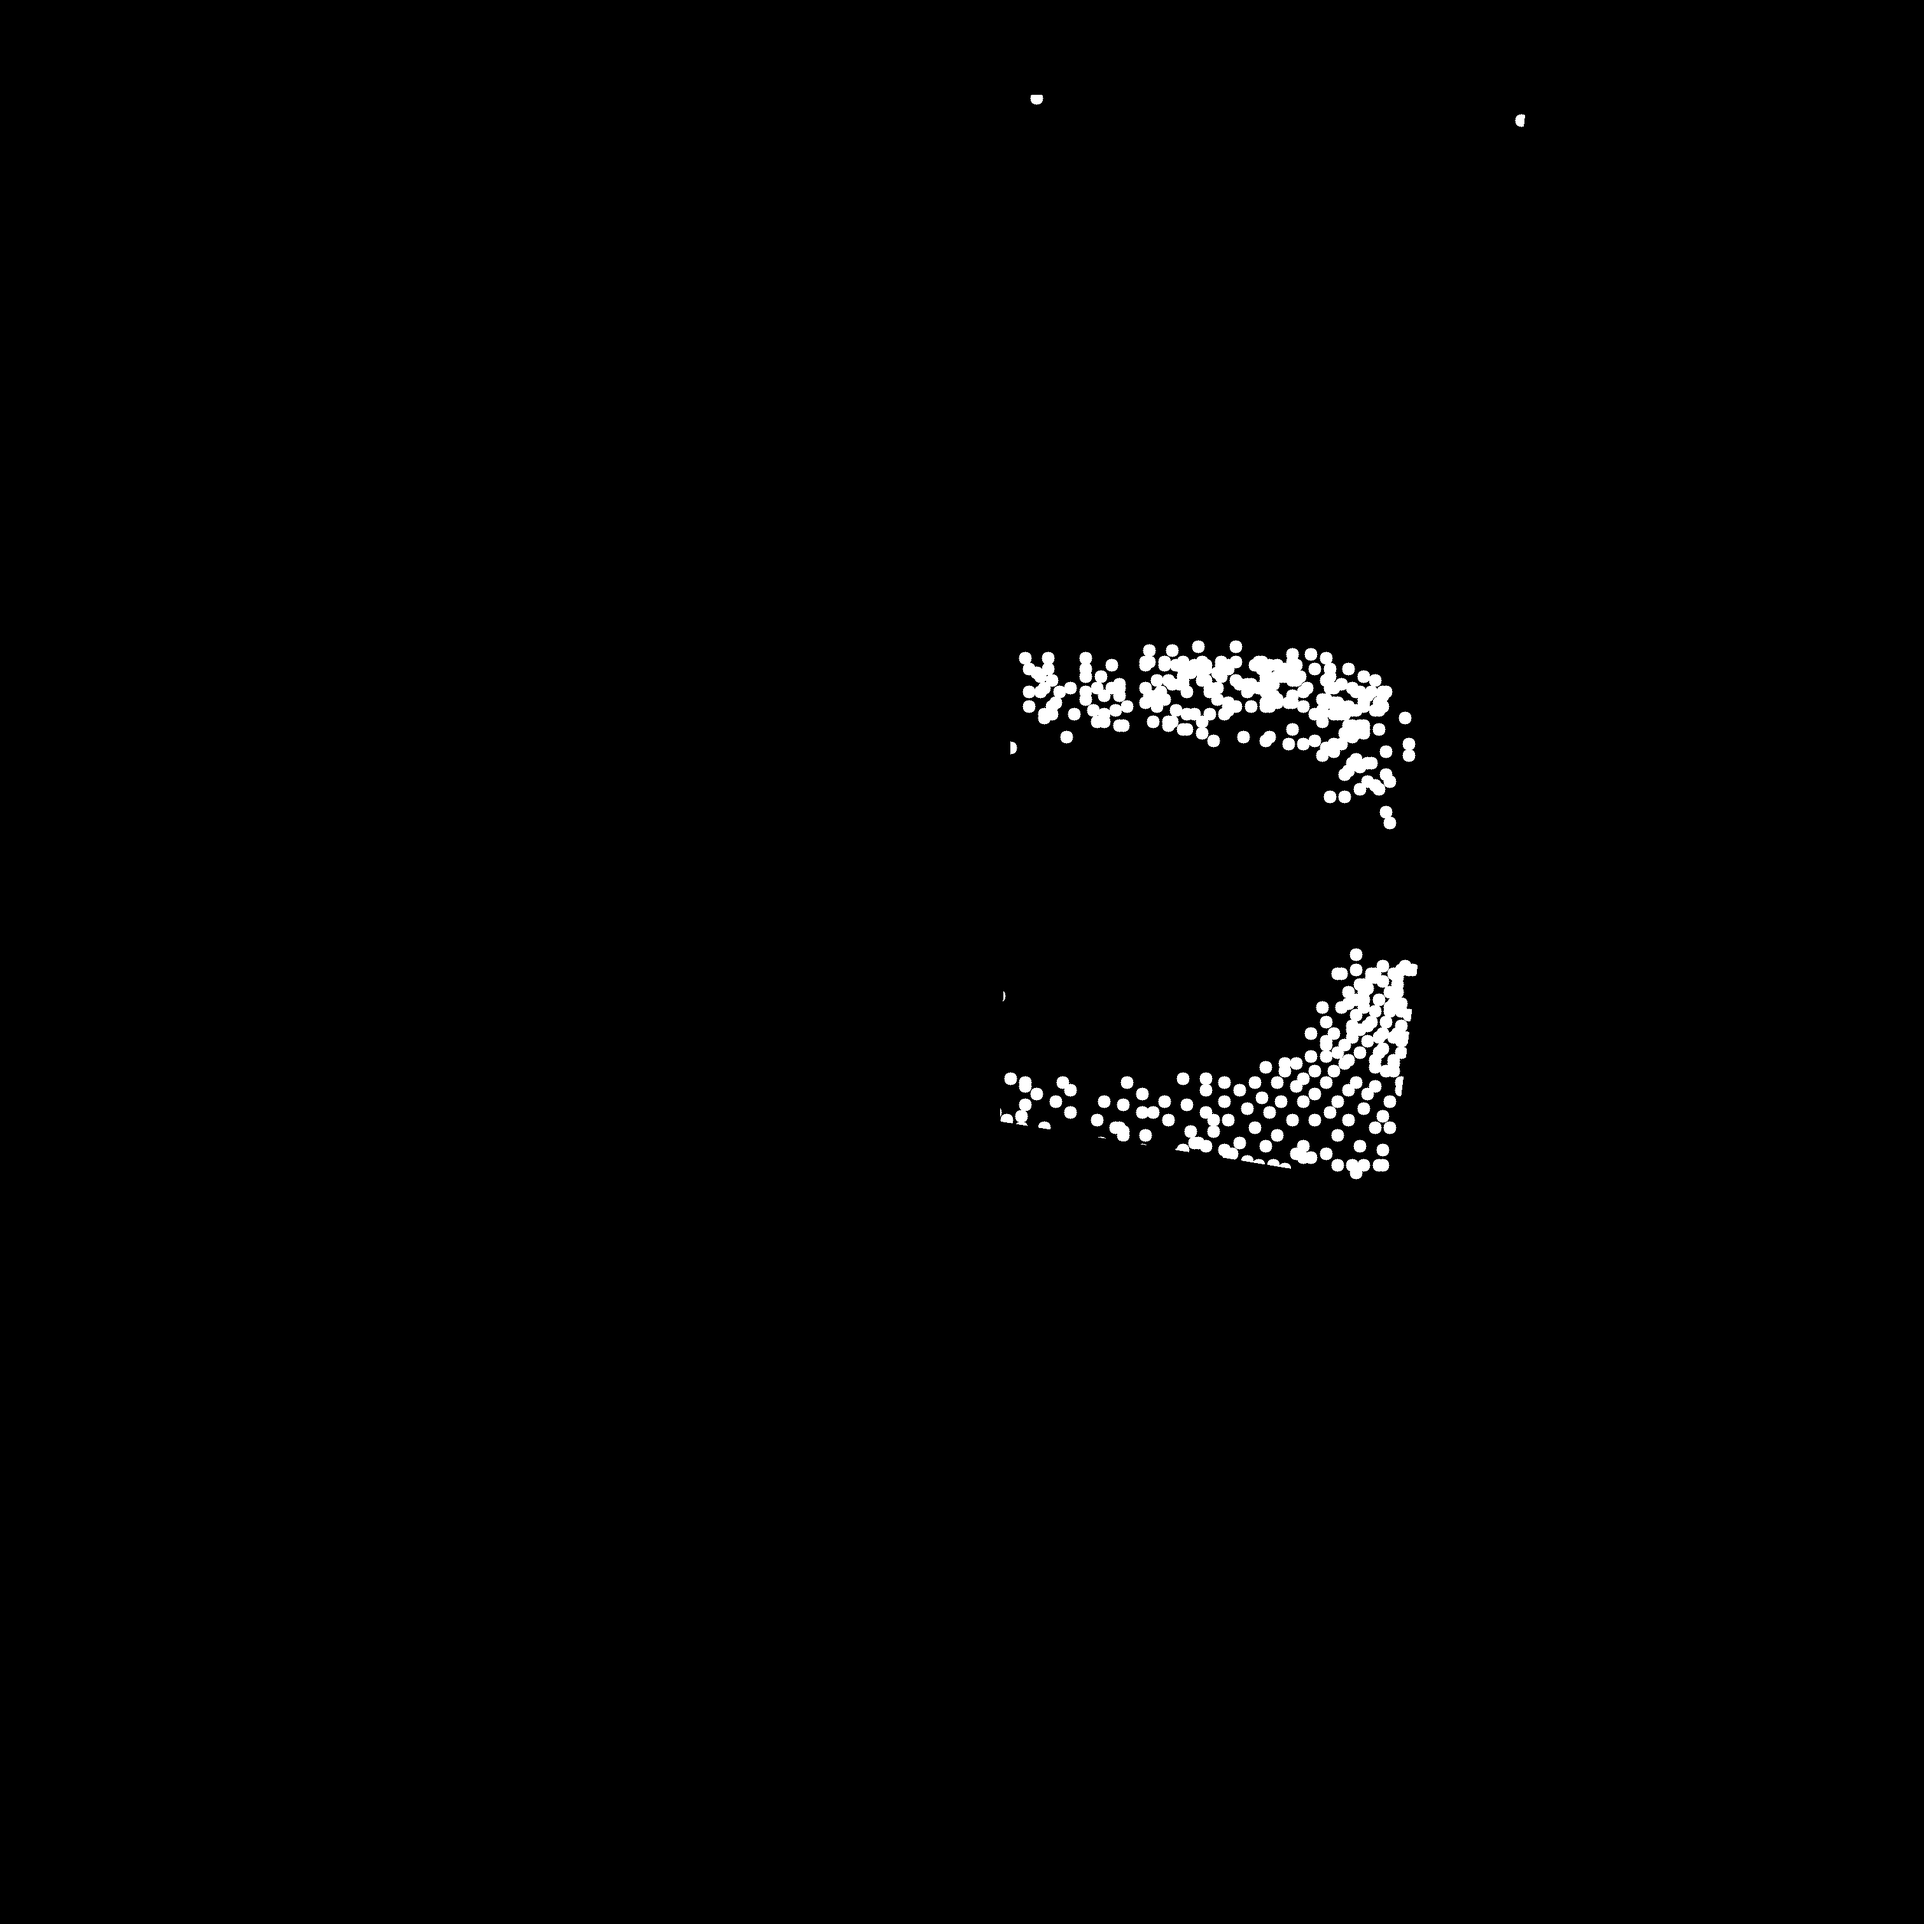
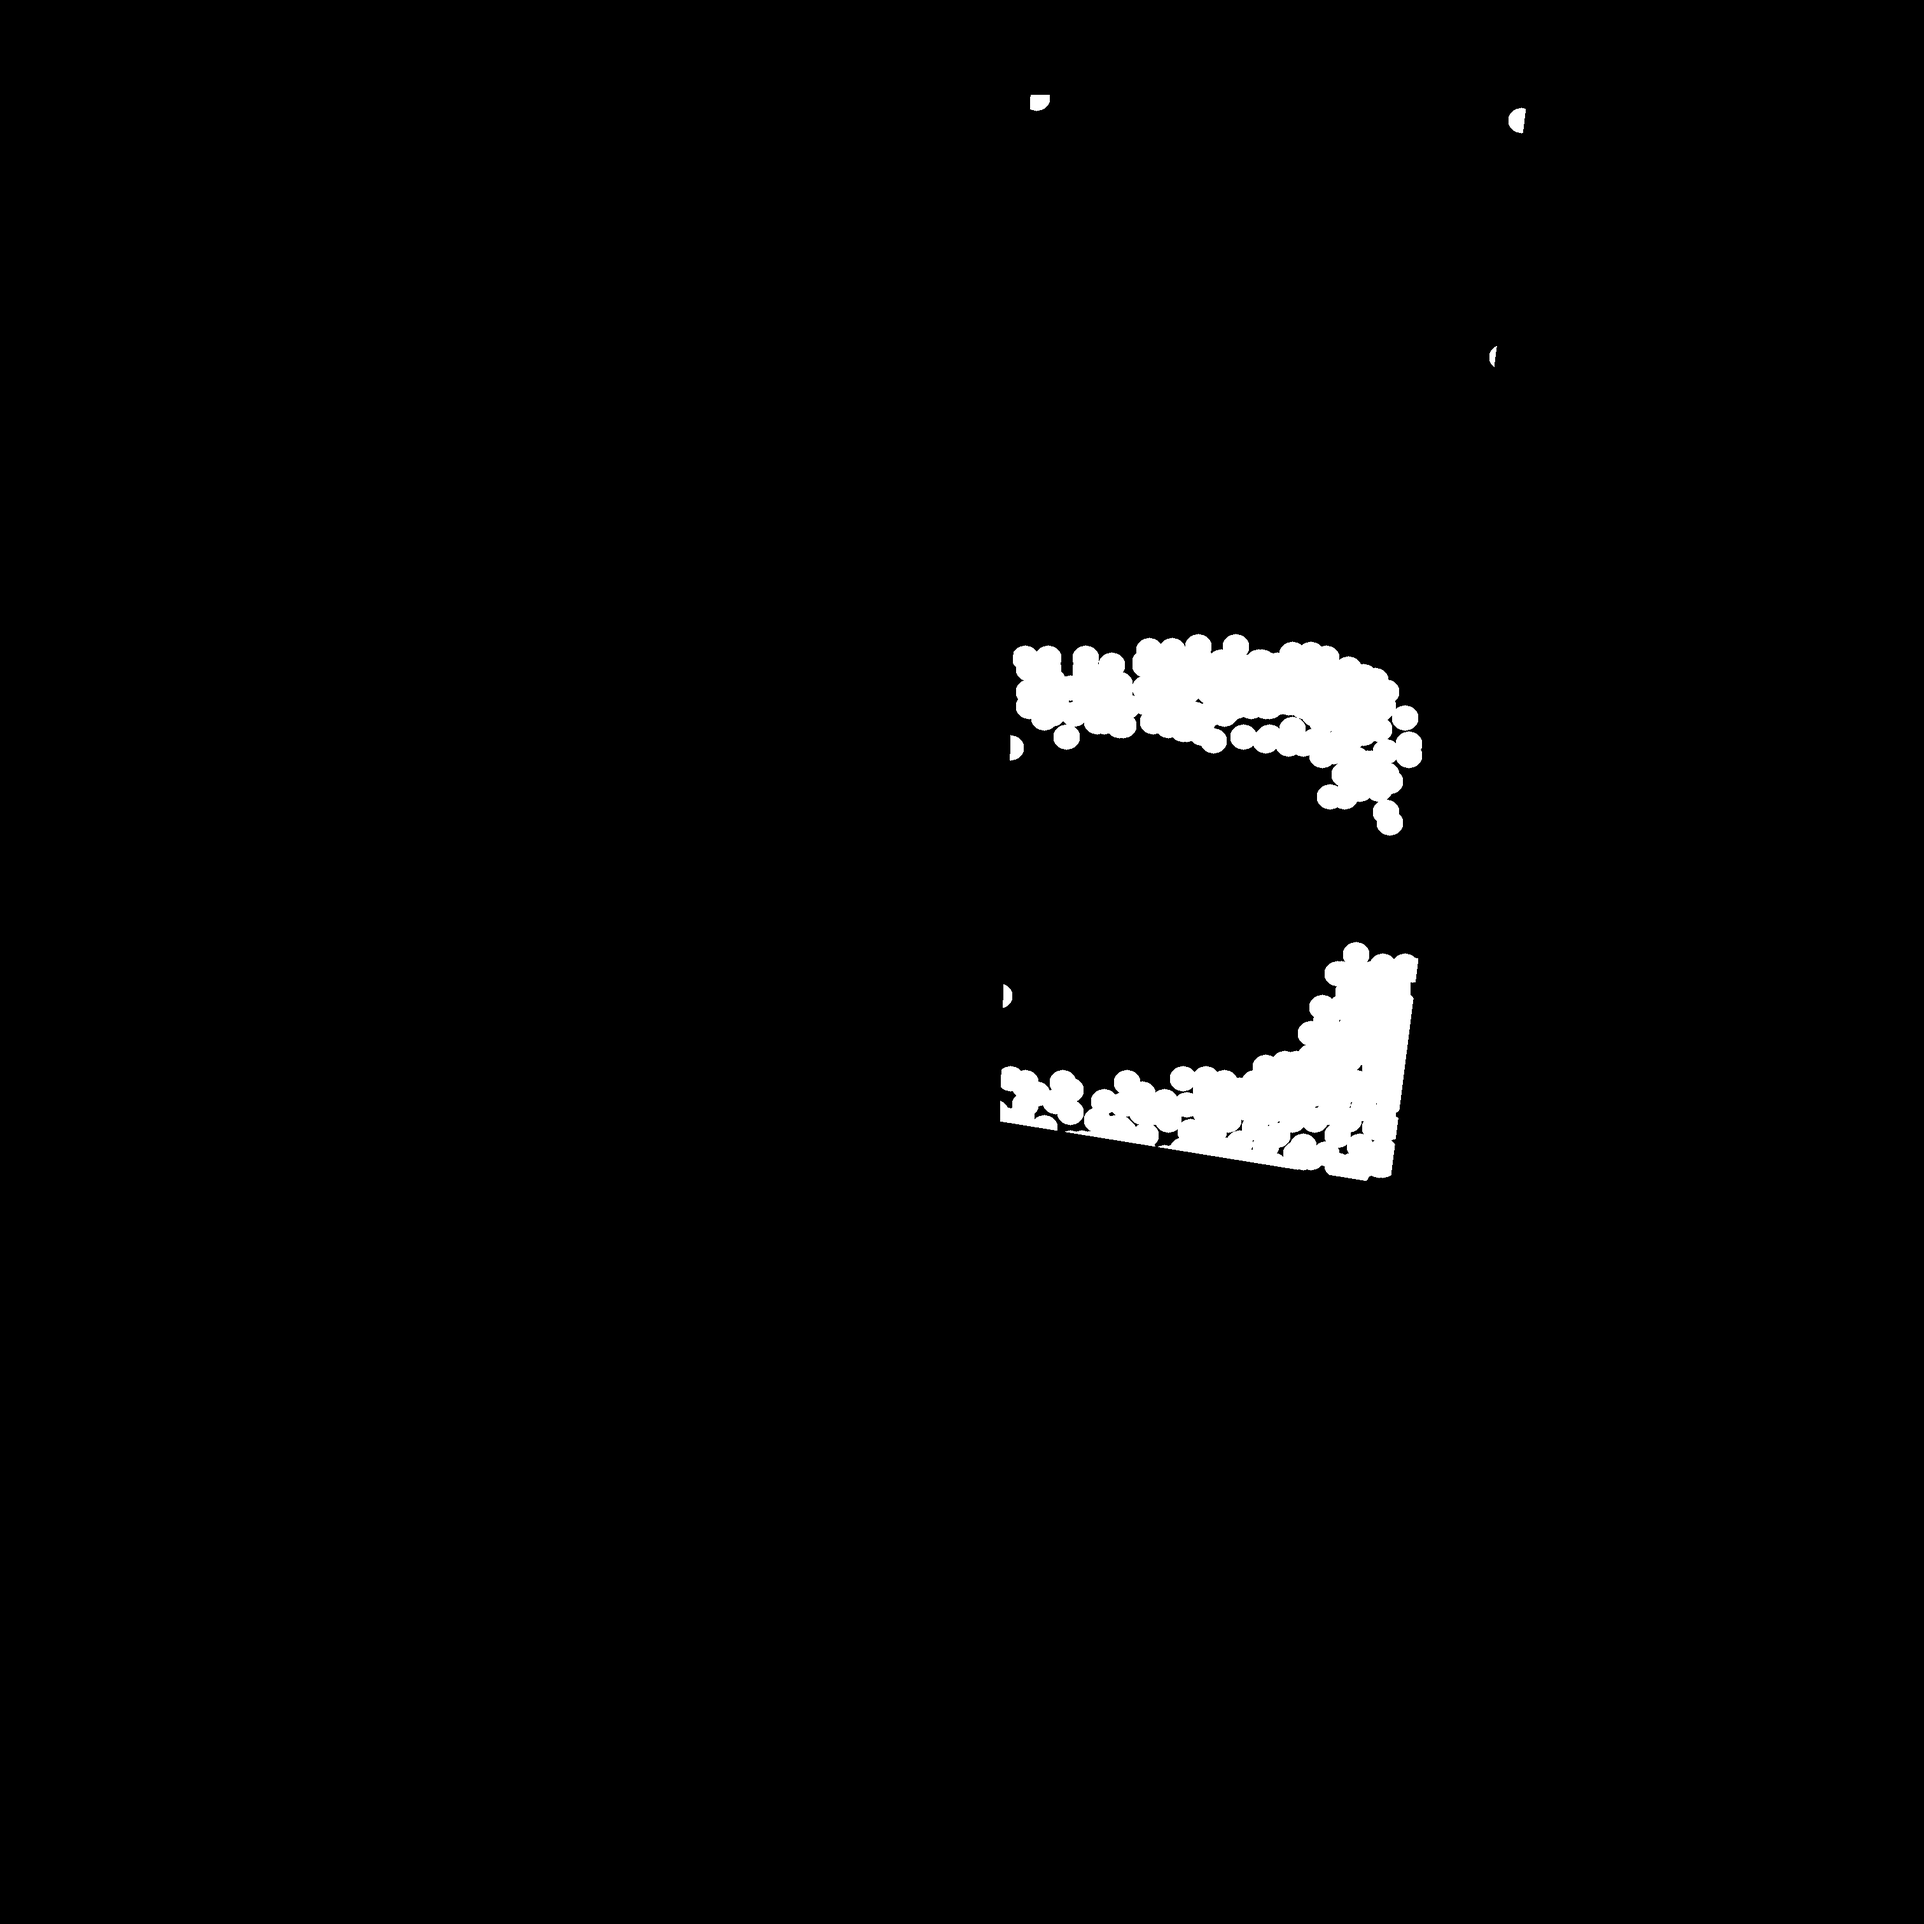
Use a circular dilation kernel for evaluation and RCS mask computation

Changed region(s): [[0.5284, 0.3108, 0.746, 0.4352], [0.5284, 0.4974, 0.746, 0.6217]]

diff --git a/fill_my_mirror/evaluation/rcs_mask_computation.py b/fill_my_mirror/evaluation/rcs_mask_computation.py
@@ -97,7 +97,7 @@ def compute_rcs_mask(
     device : str, optional
         Torch device (e.g. ``"cuda"`` or ``"cpu"``). Defaults to CUDA if available.
     dilation_radius : int
-        Half-size of the square dilation kernel (kernel = ``(2*r+1) × (2*r+1)``),
+        Radius of the circular dilation kernel (kernel size = ``(2*r+1) × (2*r+1)``),
         applied with ``iterations=2``. Set to 0 to disable dilation.
 
     Returns
@@ -267,8 +267,7 @@ def _dilate_and_intersect(
     """
     Dilate the correspondence mask and intersect with the mirror mask.
 
-    Uses a square kernel with ``iterations=2``, matching ``build_inpainting_mask``
-    in the projection pipeline.
+    Uses a circular kernel (``cv2.MORPH_ELLIPSE``) with ``iterations=2``.
 
     Parameters
     ----------
@@ -277,7 +276,7 @@ def _dilate_and_intersect(
     mirror_mask_arr : np.ndarray, bool (H, W)
         Mirror region mask.
     dilation_radius : int
-        Half-size of the square kernel (kernel = ``(2*r+1) × (2*r+1)``).
+        Radius of the circular kernel (kernel size = ``(2*r+1) × (2*r+1)``).
         Set to 0 to disable dilation.
 
     Returns
@@ -286,7 +285,7 @@ def _dilate_and_intersect(
     """
     if dilation_radius > 0:
         kernel_size = 2 * dilation_radius + 1
-        kernel = np.ones((kernel_size, kernel_size), dtype=np.uint8)
+        kernel = cv2.getStructuringElement(cv2.MORPH_ELLIPSE, (kernel_size, kernel_size))
         mask_uint8 = correspondence_mask.astype(np.uint8) * 255
         dilated_uint8 = cv2.dilate(mask_uint8, kernel, iterations=2)
         dilated = dilated_uint8 > 127
